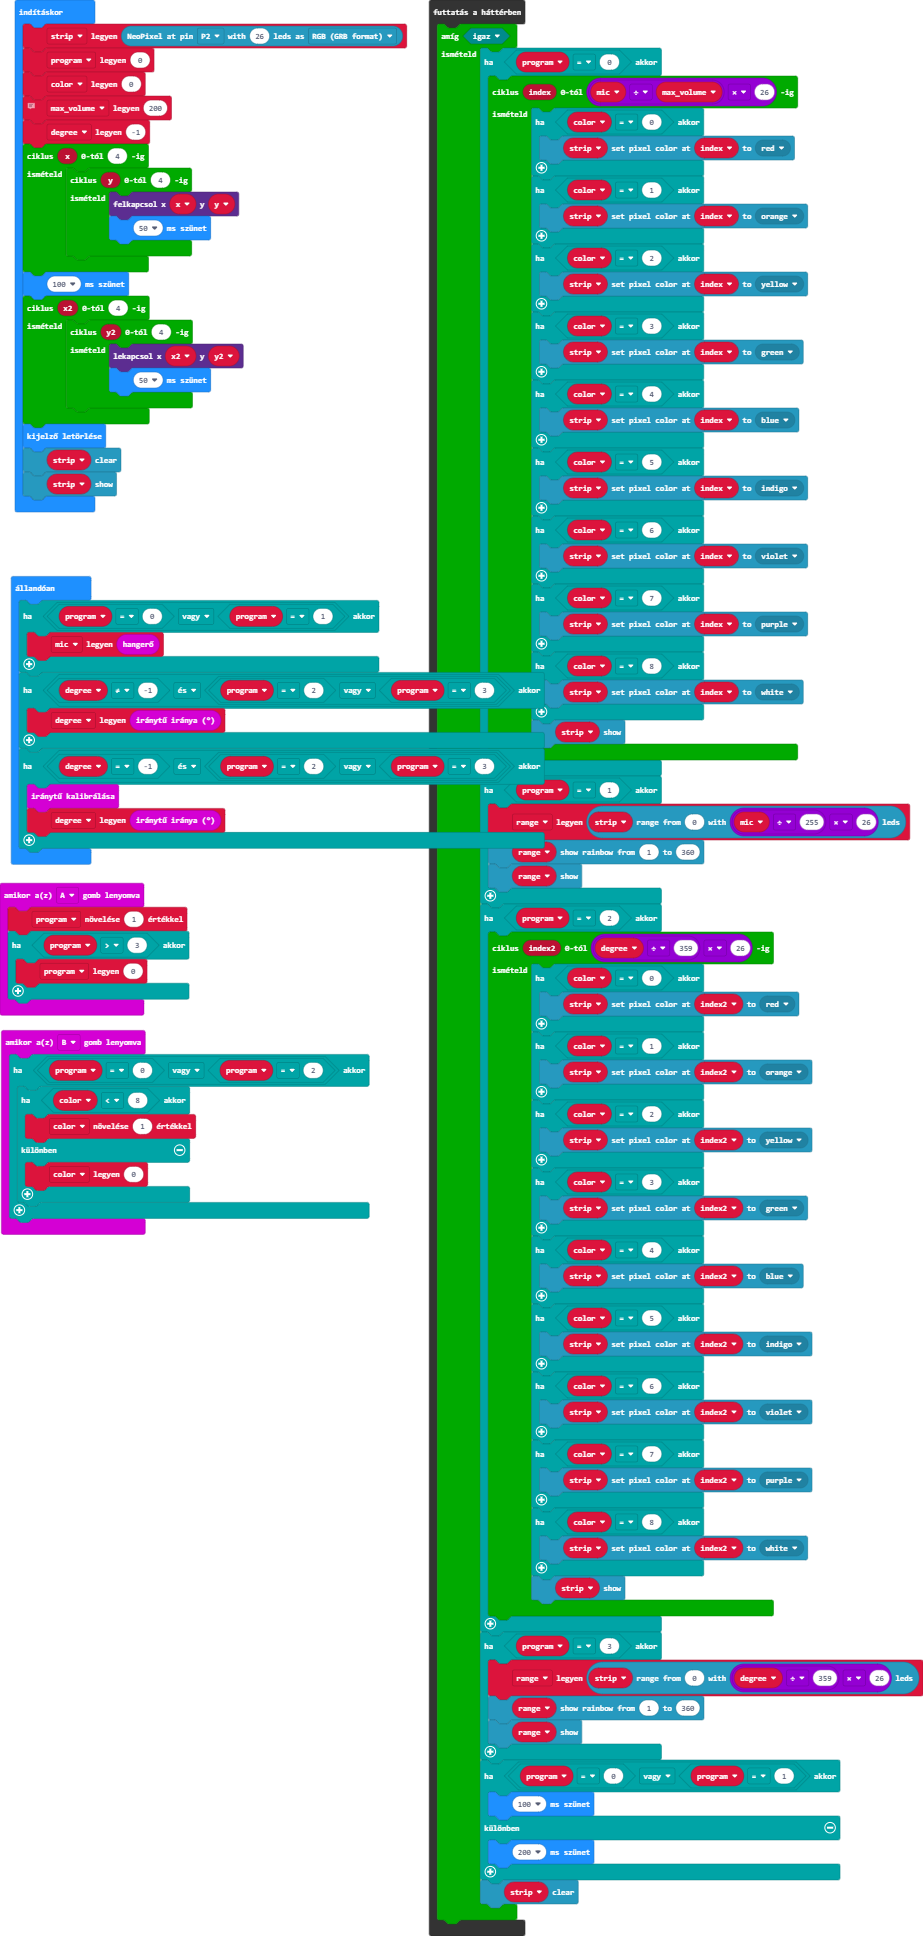
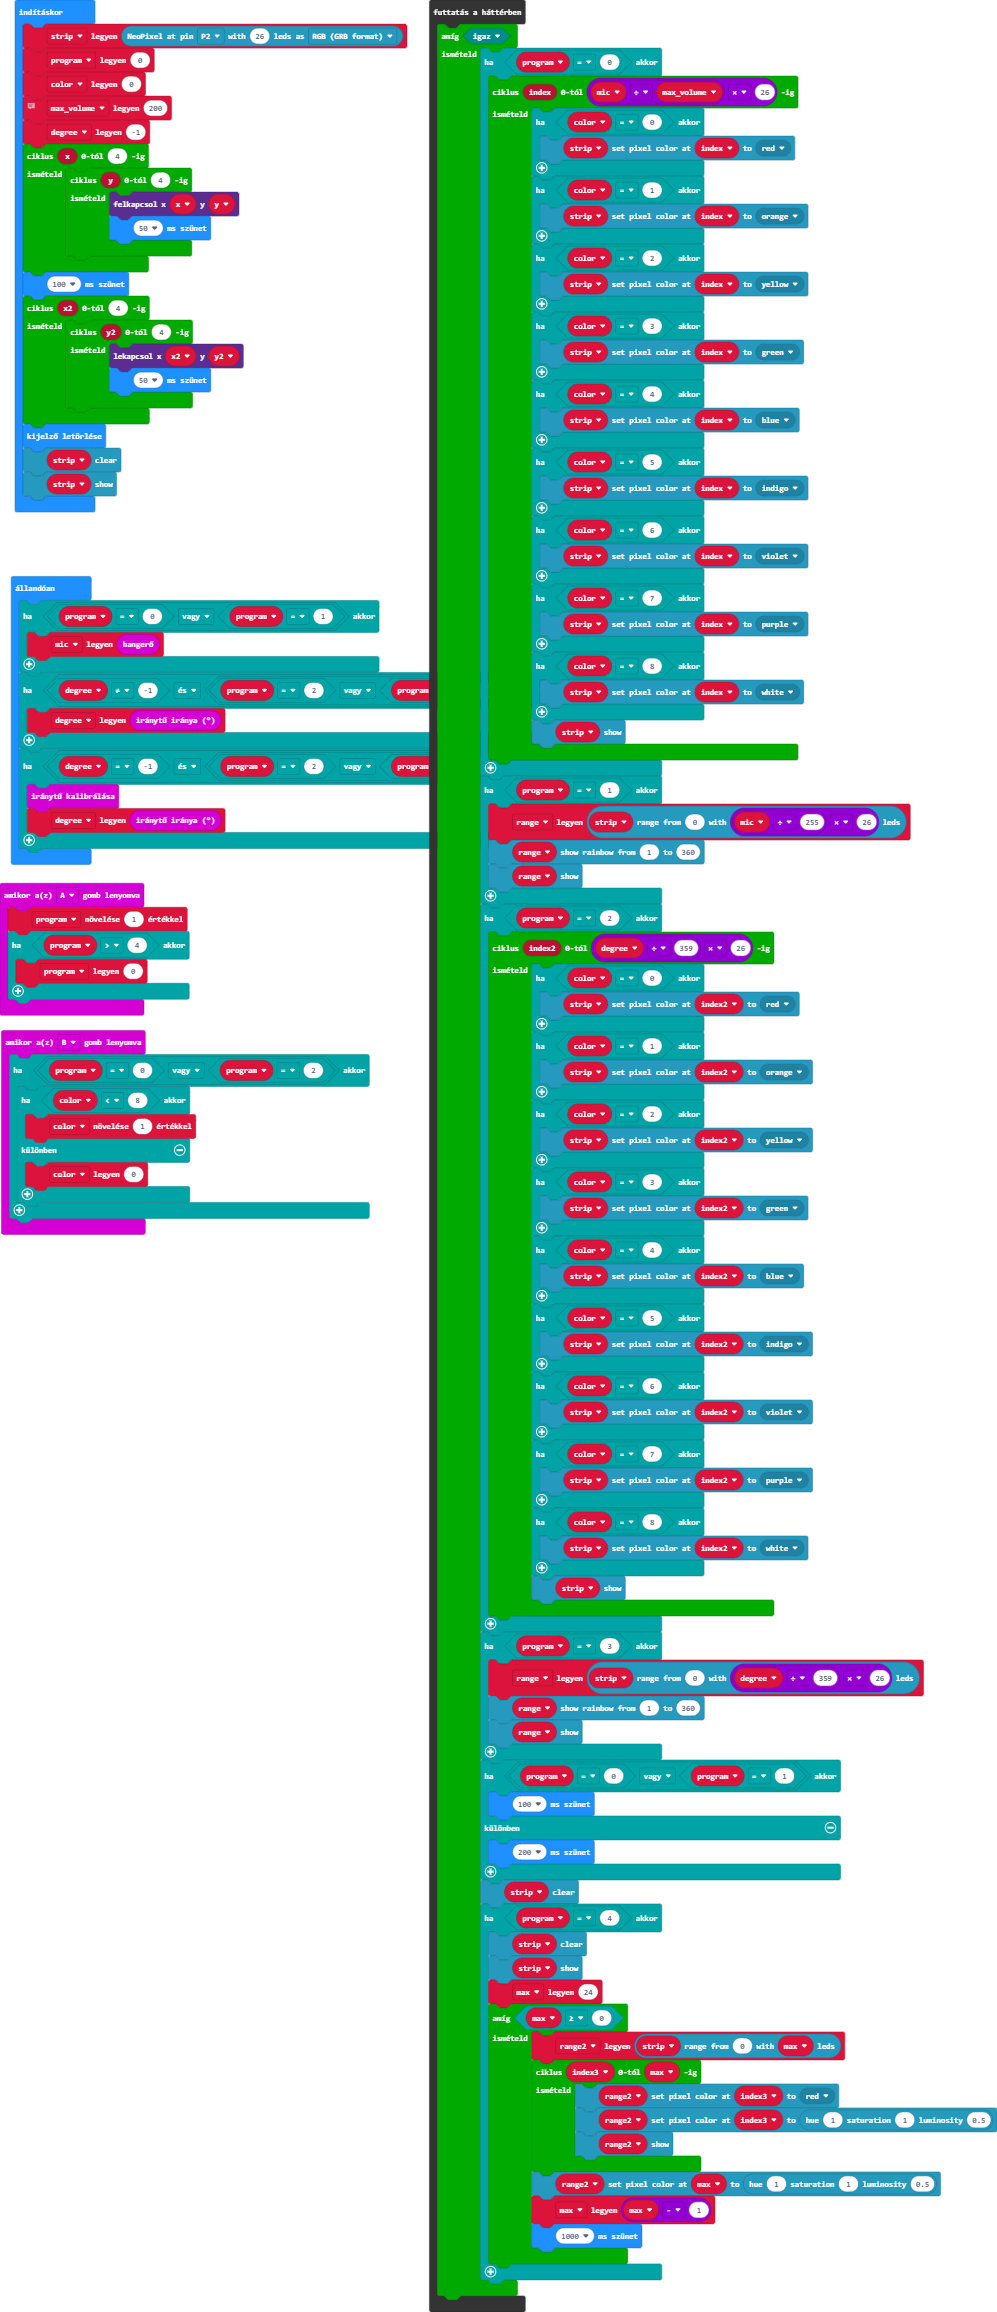
main.blocks, main.ts frissítése

diff --git a/main.ts b/main.ts
@@ -1,6 +1,6 @@
 input.onButtonPressed(Button.A, function () {
     program += 1
-    if (program > 3) {
+    if (program > 4) {
         program = 0
     }
 })
@@ -13,6 +13,8 @@ input.onButtonPressed(Button.B, function () {
         }
     }
 })
+let range2: neopixel.Strip = null
+let max = 0
 let range: neopixel.Strip = null
 let mic = 0
 let color = 0
@@ -133,5 +135,21 @@ control.inBackground(function () {
             basic.pause(200)
         }
         strip.clear()
+        if (program == 4) {
+            strip.clear()
+            strip.show()
+            max = 24
+            while (max >= 0) {
+                range2 = strip.range(0, max)
+                for (let index3 = 0; index3 <= max; index3++) {
+                    range2.setPixelColor(index3, neopixel.colors(NeoPixelColors.Red))
+                    range2.setPixelColor(index3, neopixel.hsl(1, 1, 0.5))
+                    range2.show()
+                }
+                range2.setPixelColor(max, neopixel.hsl(1, 1, 0.5))
+                max = max - 1
+                basic.pause(1000)
+            }
+        }
     }
 })
